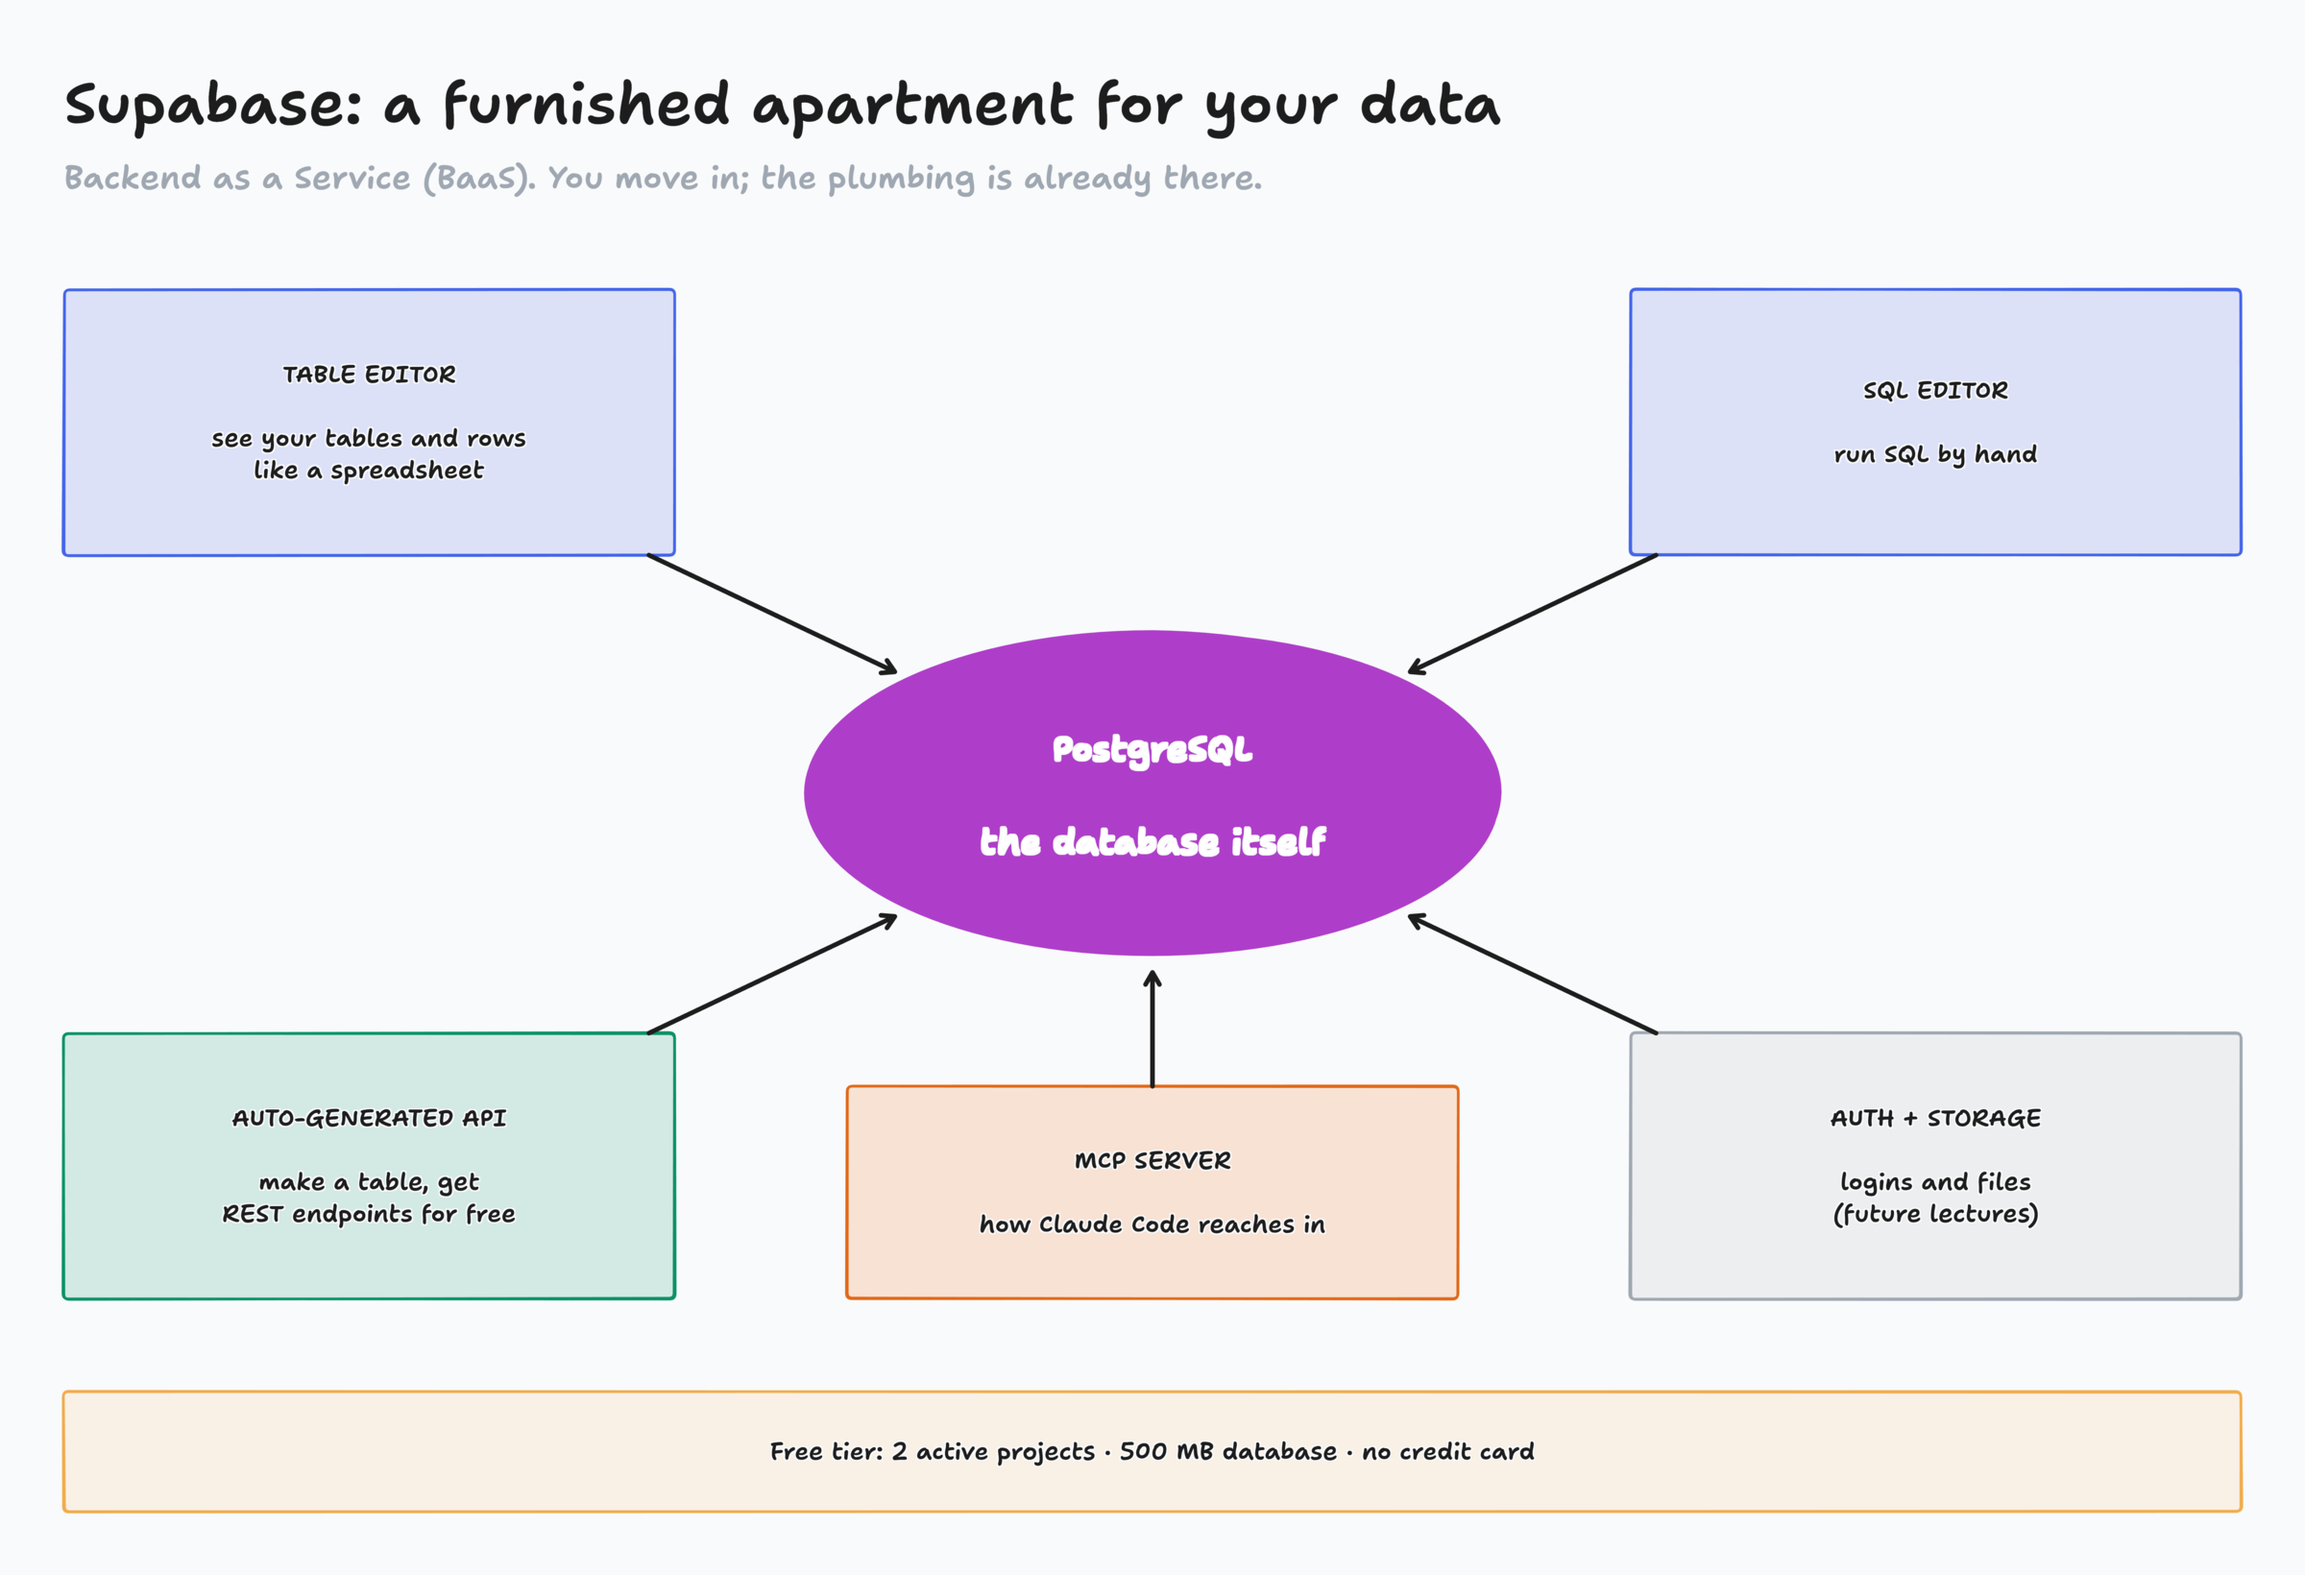
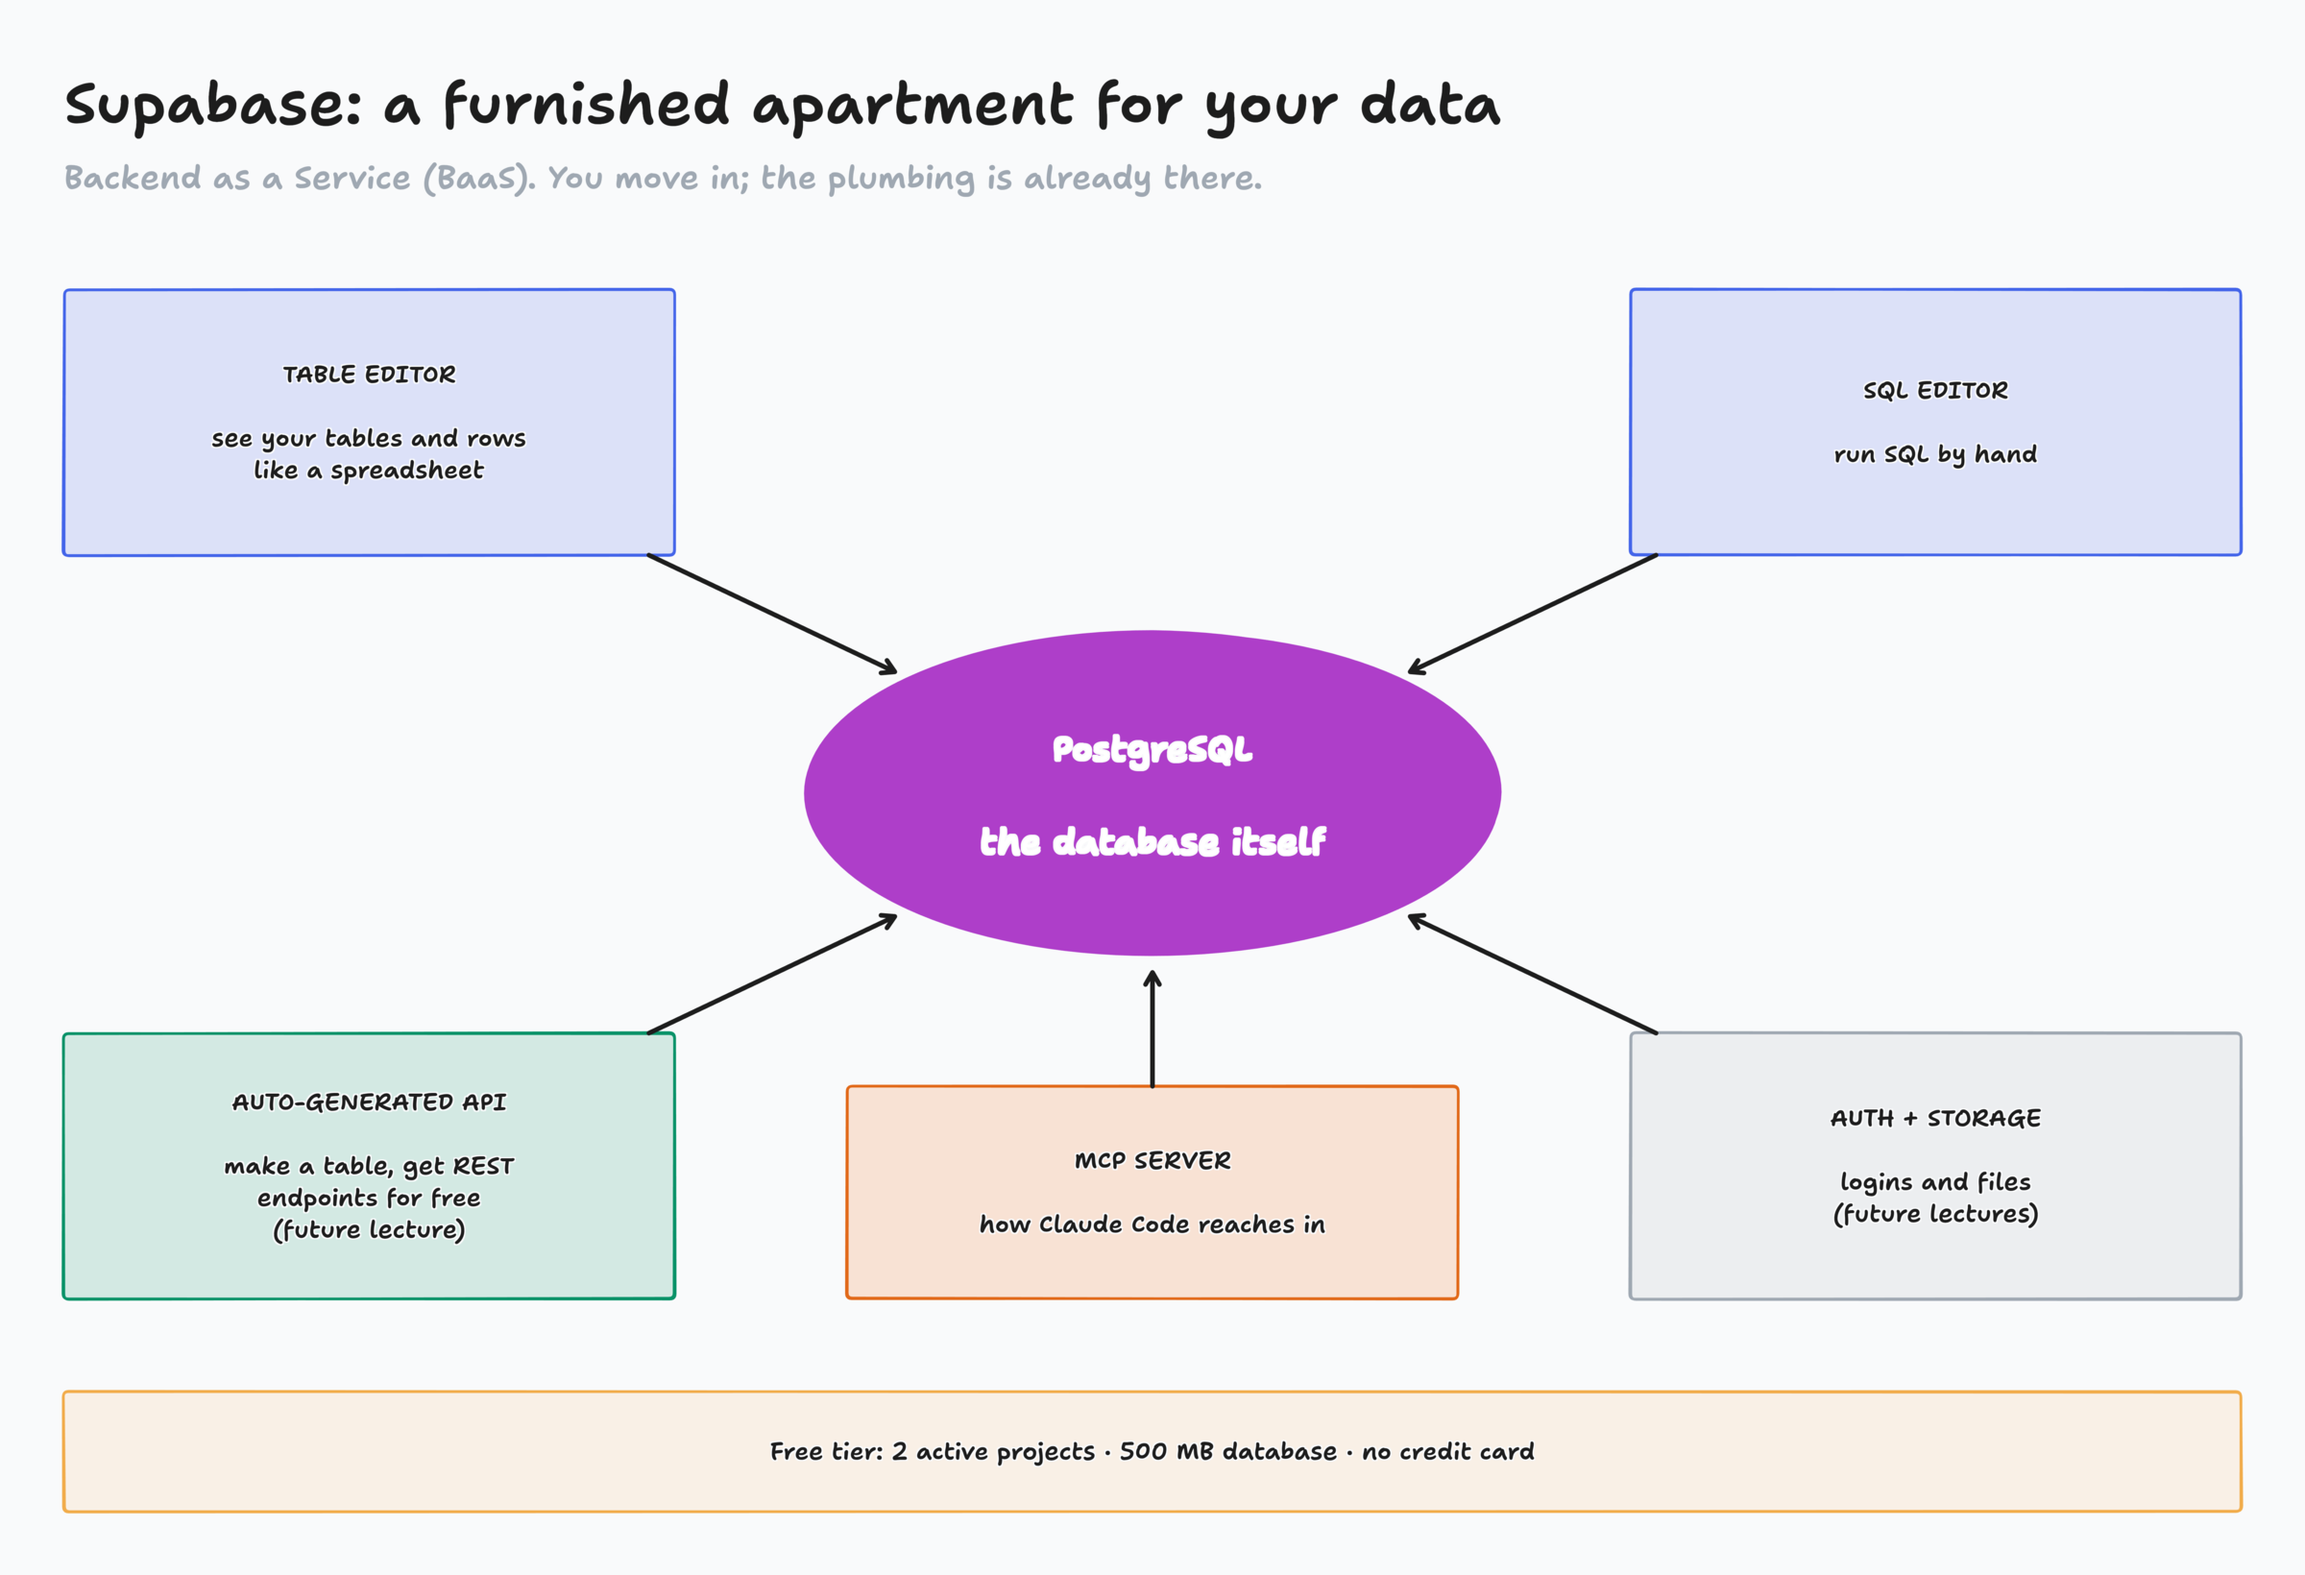
Mark the auto-generated API as a future lecture on the Supabase diagram

Changed region(s): [[0.0938, 0.6841, 0.2188, 0.8085]]

diff --git a/lecture-2-databases-on-the-cloud/slides.html b/lecture-2-databases-on-the-cloud/slides.html
@@ -60,6 +60,7 @@
   <aside class="notes">
     <p><b>Backend as a Service</b>: "Building a back-end from scratch is pouring concrete, framing walls, running plumbing. Supabase hands you the keys to a furnished apartment."</p>
     <p>At the center is a real PostgreSQL database, so everything from Lecture 1 applies directly. Around it: a visual dashboard, an API generated from your tables, auth and file storage (future lectures), and an MCP server so Claude Code can work with it.</p>
+    <p>Point at the green box: "Make a table, and Supabase gives you web addresses to read and write it. We won't touch it today. In a future lecture we send it requests ourselves, then connect Ticked through it."</p>
   </aside>
 </section>
 
